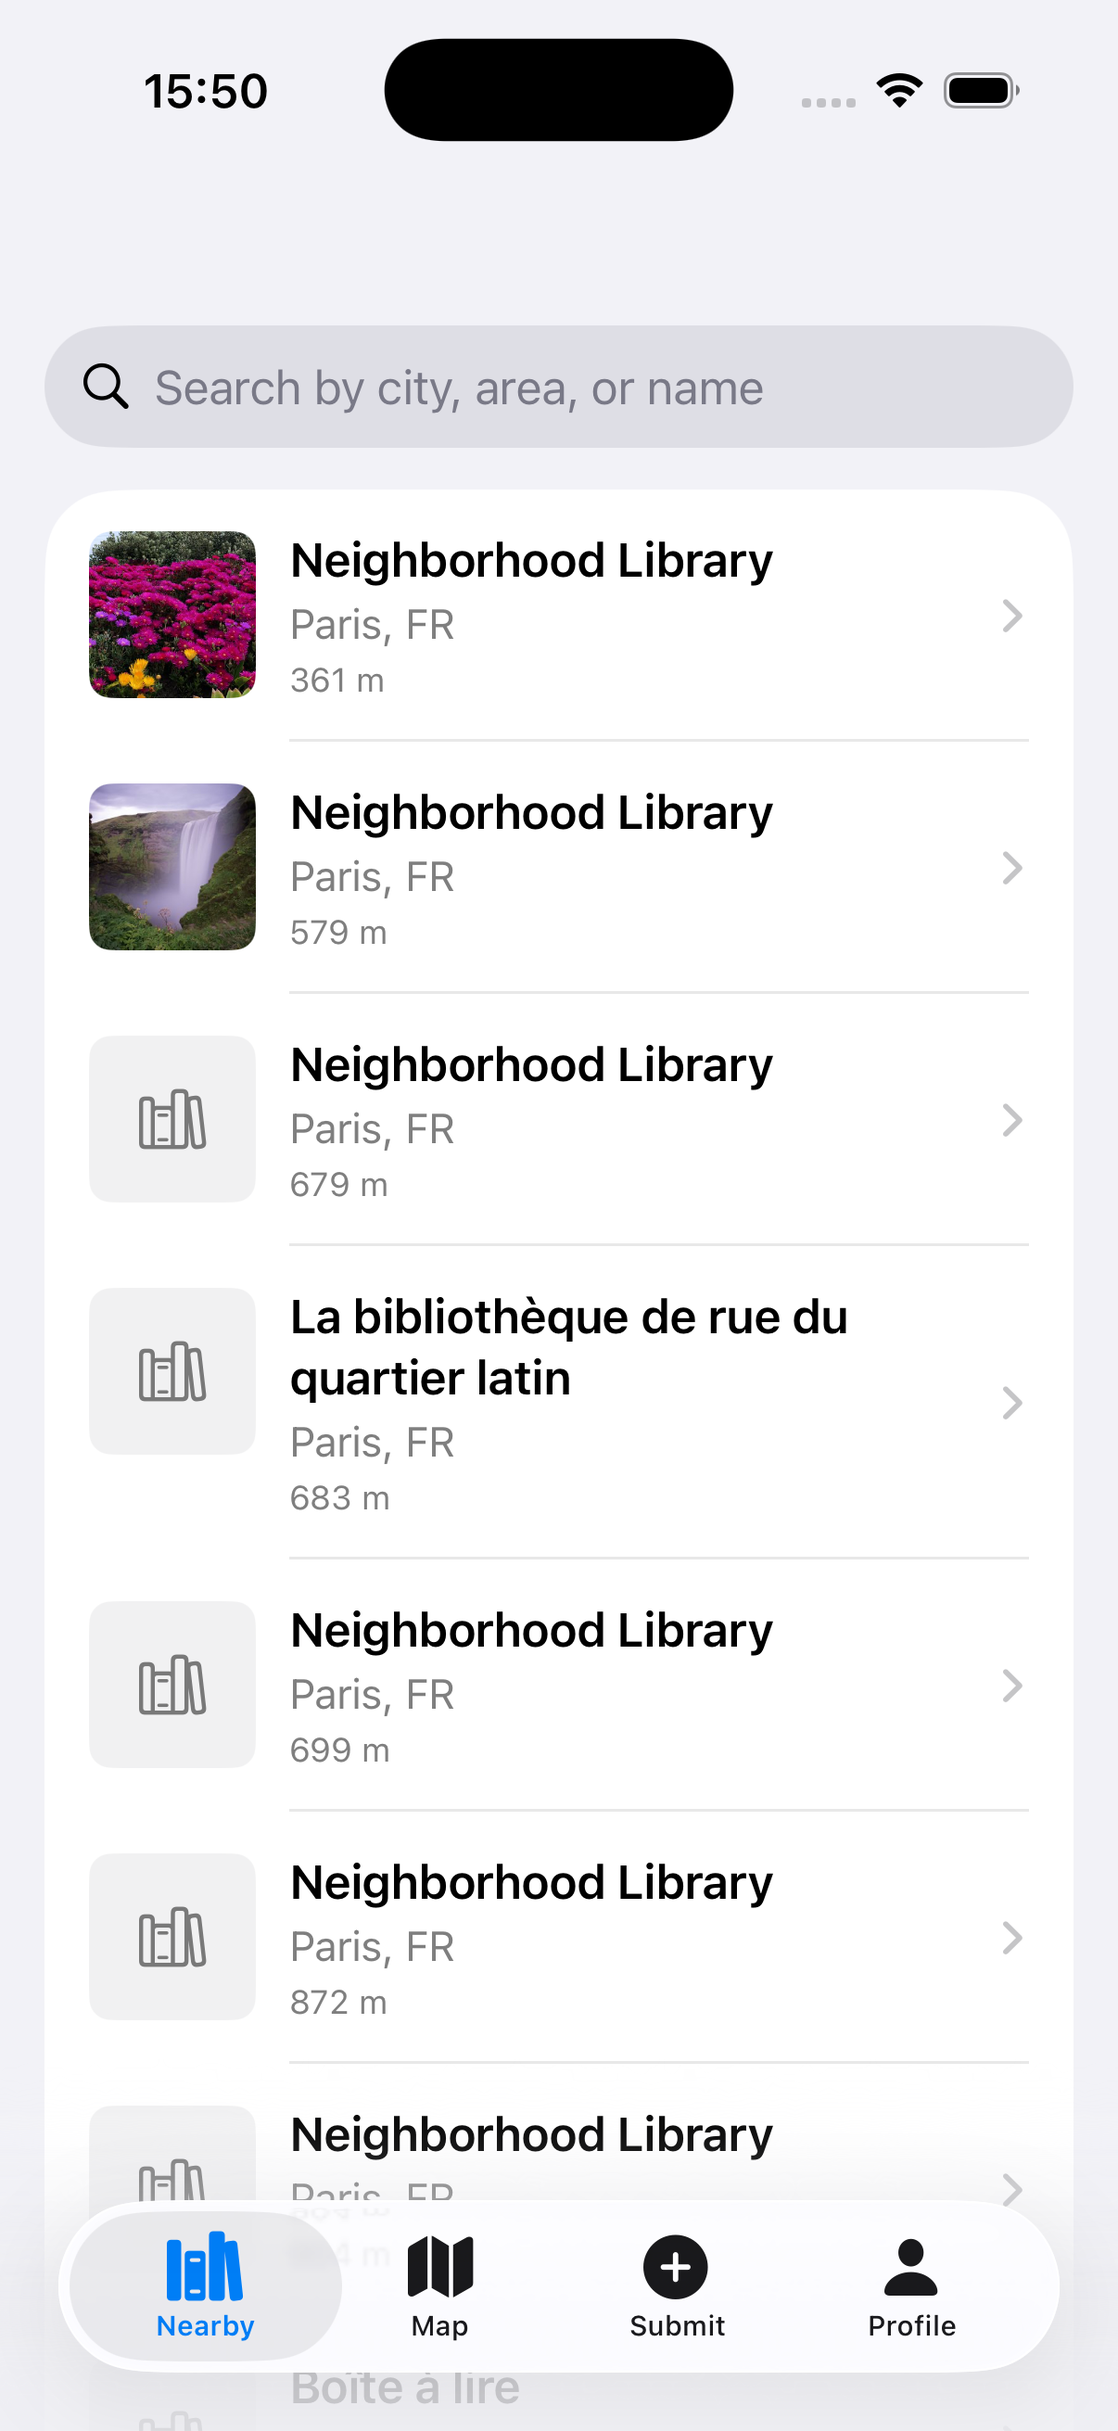
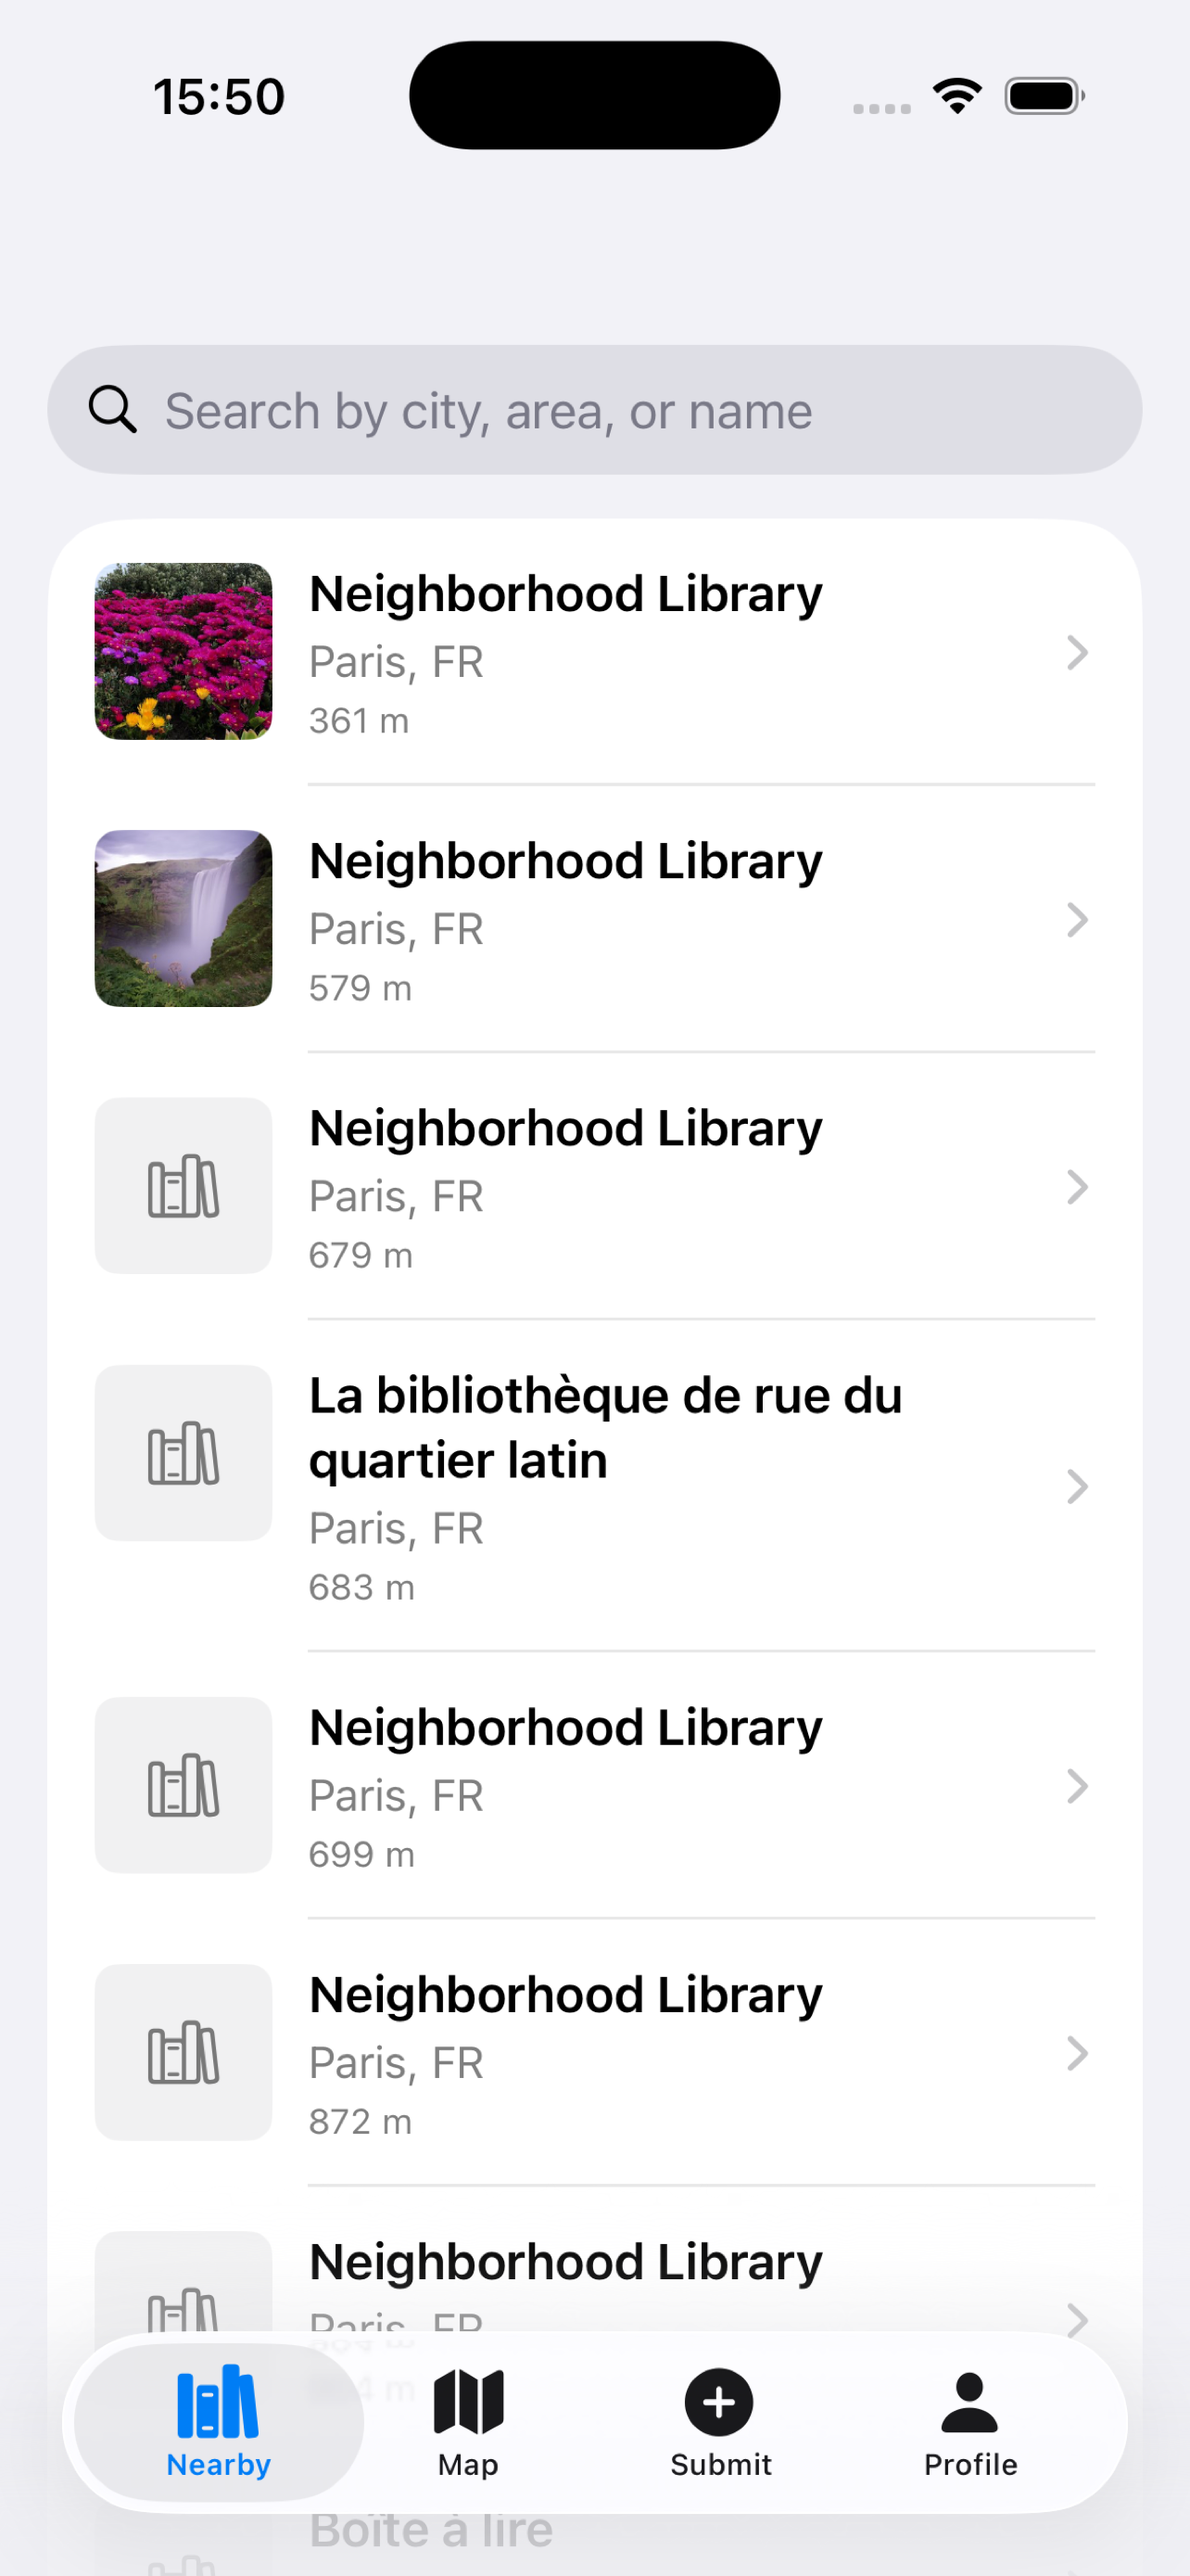
Update App Store assets and metadata
Add promotional text, resize screenshots to 1284x2778 for App Store,
and add 120x120 logo for Google OAuth branding.

diff --git a/app-store-metadata.md b/app-store-metadata.md
@@ -6,6 +6,9 @@ Book Corners
 ## Subtitle (max 30 characters)
 Find Community Book Exchanges
 
+## Promotional Text (max 170 characters)
+Discover community book exchanges near you. Browse the map, find your next read, and help grow the directory by submitting new libraries and photos.
+
 ## Description (max 4000 characters)
 Book Corners helps you discover, share, and contribute to community book exchanges in your neighborhood and around the world.
 
